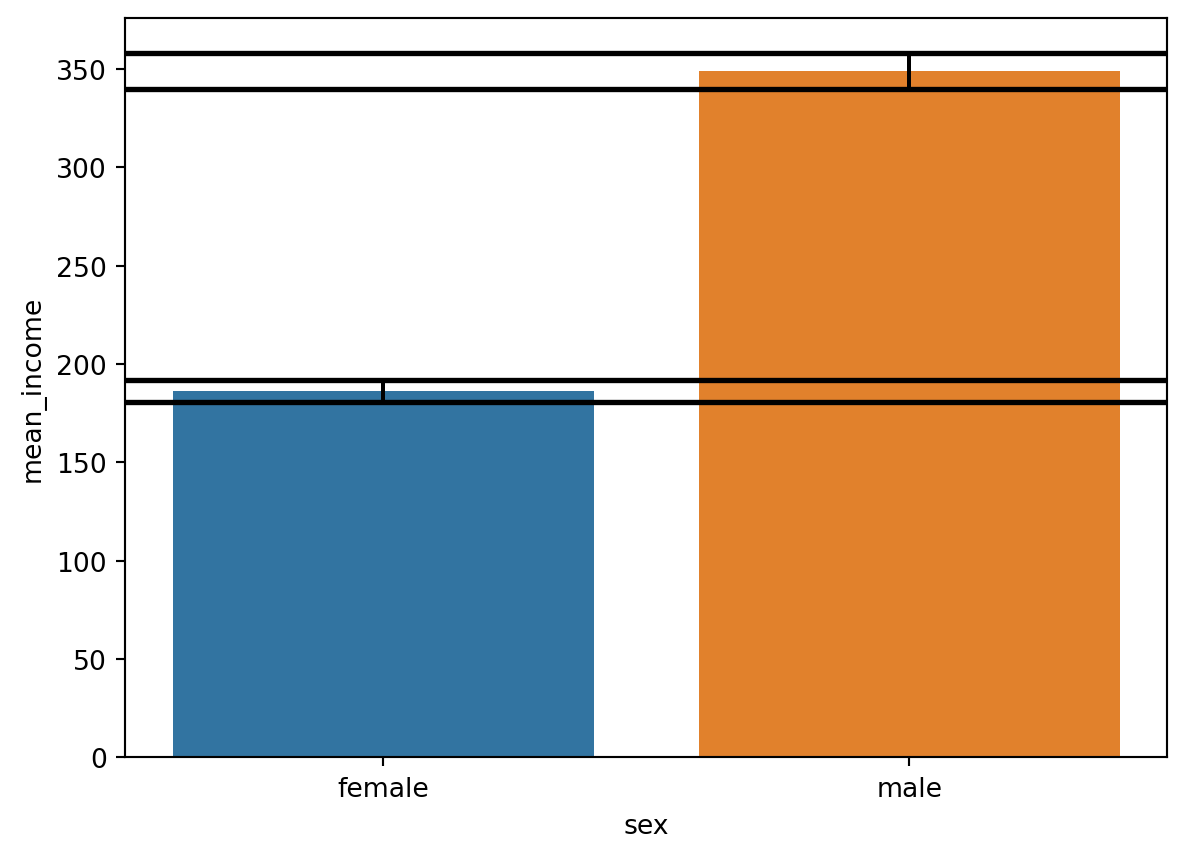
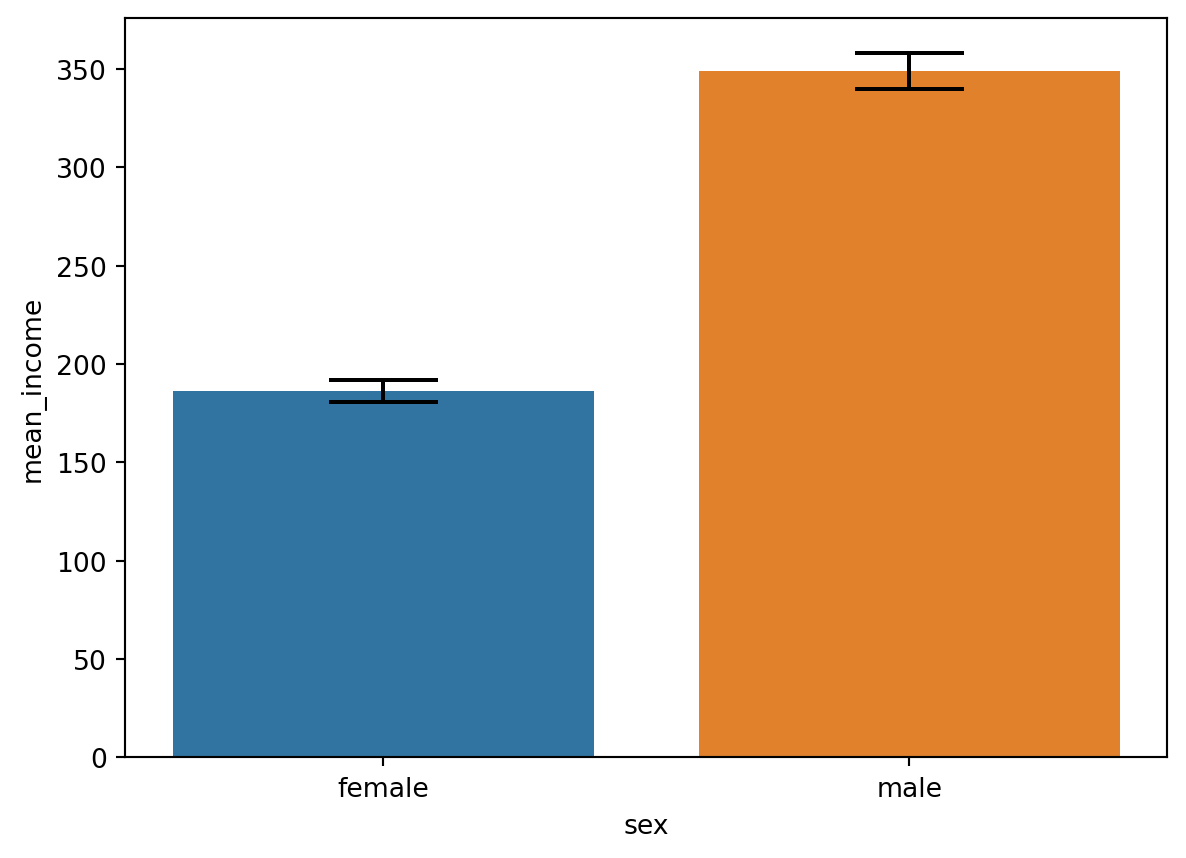
hw5

Changed region(s): [[0.0936, 0.4242, 0.9983, 0.4848], [0.0936, 0.0606, 0.9983, 0.1212]]

diff --git a/docs/posts/hw5/index.html b/docs/posts/hw5/index.html
@@ -211,7 +211,7 @@ pre > code.sourceCode > span > a:first-child::before { text-decoration: underlin
 </ul>
 <p><img src="graph.png" class="img-fluid"></p>
 <hr>
-<div id="a6b5e238" class="cell" data-execution_count="1">
+<div id="14d5e47e" class="cell" data-execution_count="1">
 <div class="sourceCode cell-code" id="cb1"><pre class="sourceCode python code-with-copy"><code class="sourceCode python"><span id="cb1-1"><a href="#cb1-1" aria-hidden="true" tabindex="-1"></a><span class="op">!</span>pip install pyreadstat</span>
 <span id="cb1-2"><a href="#cb1-2" aria-hidden="true" tabindex="-1"></a><span class="im">import</span> pandas <span class="im">as</span> pd</span>
 <span id="cb1-3"><a href="#cb1-3" aria-hidden="true" tabindex="-1"></a><span class="im">import</span> numpy <span class="im">as</span> np</span>
@@ -243,6 +243,11 @@ pre > code.sourceCode > span > a:first-child::before { text-decoration: underlin
 <span id="cb1-29"><a href="#cb1-29" aria-hidden="true" tabindex="-1"></a></span>
 <span id="cb1-30"><a href="#cb1-30" aria-hidden="true" tabindex="-1"></a><span class="co"># 성별 항목에 이름 부여                 </span></span>
 <span id="cb1-31"><a href="#cb1-31" aria-hidden="true" tabindex="-1"></a>welfare[<span class="st">'sex'</span>] <span class="op">=</span> np.where(welfare[<span class="st">'sex'</span>] <span class="op">==</span> <span class="dv">1</span>, <span class="st">'male'</span>, <span class="st">'female'</span>)</span></code><button title="Copy to Clipboard" class="code-copy-button"><i class="bi"></i></button></pre></div>
+<div class="cell-output cell-output-stderr">
+<pre><code>
+[notice] A new release of pip is available: 24.0 -&gt; 24.2
+[notice] To update, run: python.exe -m pip install --upgrade pip</code></pre>
+</div>
 <div class="cell-output cell-output-stdout">
 <pre><code>Requirement already satisfied: pyreadstat in c:\ds\python\python312\lib\site-packages (1.2.7)
 Requirement already satisfied: pandas&gt;=1.2.0 in c:\ds\python\python312\lib\site-packages (from pyreadstat) (2.2.2)
@@ -257,17 +262,12 @@ Columns: 830 entries, h14_id to h14_pers_income5
 dtypes: float64(826), object(4)
 memory usage: 91.3+ MB</code></pre>
 </div>
-<div class="cell-output cell-output-stderr">
-<pre><code>
-[notice] A new release of pip is available: 24.0 -&gt; 24.2
-[notice] To update, run: python.exe -m pip install --upgrade pip</code></pre>
-</div>
 </div>
 <hr>
 </section>
 <section id="각-성별-데이터-나누기" class="level2">
 <h2 class="anchored" data-anchor-id="각-성별-데이터-나누기">각 성별 데이터 나누기</h2>
-<div id="d24bfdd0" class="cell" data-execution_count="2">
+<div id="85c6349f" class="cell" data-execution_count="2">
 <div class="sourceCode cell-code" id="cb4"><pre class="sourceCode python code-with-copy"><code class="sourceCode python"><span id="cb4-1"><a href="#cb4-1" aria-hidden="true" tabindex="-1"></a>male_data <span class="op">=</span> welfare.query(<span class="st">'sex == "male"'</span>)[[<span class="st">"sex"</span>, <span class="st">"income"</span>]]</span>
 <span id="cb4-2"><a href="#cb4-2" aria-hidden="true" tabindex="-1"></a></span>
 <span id="cb4-3"><a href="#cb4-3" aria-hidden="true" tabindex="-1"></a>female_data <span class="op">=</span> welfare.query(<span class="st">'sex == "female"'</span>)[[<span class="st">"sex"</span>, <span class="st">"income"</span>]]</span>
@@ -308,7 +308,7 @@ memory usage: 91.3+ MB</code></pre>
 </section>
 <section id="각-성별-평균-구하기" class="level2">
 <h2 class="anchored" data-anchor-id="각-성별-평균-구하기">각 성별 평균 구하기</h2>
-<div id="91124500" class="cell" data-execution_count="3">
+<div id="17342ea2" class="cell" data-execution_count="3">
 <div class="sourceCode cell-code" id="cb6"><pre class="sourceCode python code-with-copy"><code class="sourceCode python"><span id="cb6-1"><a href="#cb6-1" aria-hidden="true" tabindex="-1"></a>male_mean <span class="op">=</span> male_data[<span class="st">'income'</span>].mean()</span>
 <span id="cb6-2"><a href="#cb6-2" aria-hidden="true" tabindex="-1"></a>female_mean <span class="op">=</span> female_data[<span class="st">'income'</span>].mean()</span>
 <span id="cb6-3"><a href="#cb6-3" aria-hidden="true" tabindex="-1"></a></span>
@@ -322,7 +322,7 @@ memory usage: 91.3+ MB</code></pre>
 </section>
 <section id="각-성별-표본분산-구하기" class="level2">
 <h2 class="anchored" data-anchor-id="각-성별-표본분산-구하기">각 성별 표본분산 구하기</h2>
-<div id="fa376e22" class="cell" data-execution_count="4">
+<div id="11c24350" class="cell" data-execution_count="4">
 <div class="sourceCode cell-code" id="cb8"><pre class="sourceCode python code-with-copy"><code class="sourceCode python"><span id="cb8-1"><a href="#cb8-1" aria-hidden="true" tabindex="-1"></a>male_s_2 <span class="op">=</span> np.var(male_data[<span class="st">'income'</span>], ddof <span class="op">=</span> <span class="dv">1</span>)</span>
 <span id="cb8-2"><a href="#cb8-2" aria-hidden="true" tabindex="-1"></a>female_s_2 <span class="op">=</span> np.var(female_data[<span class="st">'income'</span>], ddof <span class="op">=</span> <span class="dv">1</span>)</span>
 <span id="cb8-3"><a href="#cb8-3" aria-hidden="true" tabindex="-1"></a></span>
@@ -336,7 +336,7 @@ memory usage: 91.3+ MB</code></pre>
 </section>
 <section id="각-성별-표준편차-구하기" class="level2">
 <h2 class="anchored" data-anchor-id="각-성별-표준편차-구하기">각 성별 표준편차 구하기</h2>
-<div id="b2624acf" class="cell" data-execution_count="5">
+<div id="bd9a536e" class="cell" data-execution_count="5">
 <div class="sourceCode cell-code" id="cb10"><pre class="sourceCode python code-with-copy"><code class="sourceCode python"><span id="cb10-1"><a href="#cb10-1" aria-hidden="true" tabindex="-1"></a>male_scale <span class="op">=</span> np.sqrt(male_s_2)</span>
 <span id="cb10-2"><a href="#cb10-2" aria-hidden="true" tabindex="-1"></a>female_scale <span class="op">=</span> np.sqrt(female_s_2)</span>
 <span id="cb10-3"><a href="#cb10-3" aria-hidden="true" tabindex="-1"></a></span>
@@ -351,7 +351,7 @@ memory usage: 91.3+ MB</code></pre>
 </section>
 <section id="각-성별-표본수-구하기" class="level2">
 <h2 class="anchored" data-anchor-id="각-성별-표본수-구하기">각 성별 표본수 구하기</h2>
-<div id="2bd70b35" class="cell" data-execution_count="6">
+<div id="7d70d7b3" class="cell" data-execution_count="6">
 <div class="sourceCode cell-code" id="cb12"><pre class="sourceCode python code-with-copy"><code class="sourceCode python"><span id="cb12-1"><a href="#cb12-1" aria-hidden="true" tabindex="-1"></a>male_n <span class="op">=</span> male_data[<span class="st">'income'</span>].count()</span>
 <span id="cb12-2"><a href="#cb12-2" aria-hidden="true" tabindex="-1"></a>female_n <span class="op">=</span> female_data[<span class="st">'income'</span>].count()</span>
 <span id="cb12-3"><a href="#cb12-3" aria-hidden="true" tabindex="-1"></a></span>
@@ -365,18 +365,18 @@ memory usage: 91.3+ MB</code></pre>
 </section>
 <section id="각-성별-신뢰구간-95-구하기" class="level2">
 <h2 class="anchored" data-anchor-id="각-성별-신뢰구간-95-구하기">각 성별 신뢰구간 95% 구하기</h2>
-<div id="f8e5718b" class="cell" data-execution_count="7">
+<div id="185e342c" class="cell" data-execution_count="7">
 <div class="sourceCode cell-code" id="cb14"><pre class="sourceCode python code-with-copy"><code class="sourceCode python"><span id="cb14-1"><a href="#cb14-1" aria-hidden="true" tabindex="-1"></a><span class="im">from</span> scipy.stats <span class="im">import</span> norm</span>
 <span id="cb14-2"><a href="#cb14-2" aria-hidden="true" tabindex="-1"></a>z <span class="op">=</span> norm.ppf(<span class="fl">0.975</span>,loc<span class="op">=</span><span class="dv">0</span>,scale<span class="op">=</span><span class="dv">1</span>)</span>
 <span id="cb14-3"><a href="#cb14-3" aria-hidden="true" tabindex="-1"></a></span>
-<span id="cb14-4"><a href="#cb14-4" aria-hidden="true" tabindex="-1"></a>male_a <span class="op">=</span> male_mean <span class="op">+</span> z <span class="op">*</span> male_scale <span class="op">/</span> np.sqrt(male_n)</span>
-<span id="cb14-5"><a href="#cb14-5" aria-hidden="true" tabindex="-1"></a>male_b <span class="op">=</span> male_mean <span class="op">-</span> z <span class="op">*</span> male_scale <span class="op">/</span> np.sqrt(male_n)</span>
+<span id="cb14-4"><a href="#cb14-4" aria-hidden="true" tabindex="-1"></a>male_0975 <span class="op">=</span> male_mean <span class="op">+</span> z <span class="op">*</span> male_scale <span class="op">/</span> np.sqrt(male_n)</span>
+<span id="cb14-5"><a href="#cb14-5" aria-hidden="true" tabindex="-1"></a>male_0025 <span class="op">=</span> male_mean <span class="op">-</span> z <span class="op">*</span> male_scale <span class="op">/</span> np.sqrt(male_n)</span>
 <span id="cb14-6"><a href="#cb14-6" aria-hidden="true" tabindex="-1"></a></span>
-<span id="cb14-7"><a href="#cb14-7" aria-hidden="true" tabindex="-1"></a>female_a <span class="op">=</span> female_mean <span class="op">+</span> z <span class="op">*</span> female_scale <span class="op">/</span> np.sqrt(female_n)</span>
-<span id="cb14-8"><a href="#cb14-8" aria-hidden="true" tabindex="-1"></a>female_b <span class="op">=</span> female_mean <span class="op">-</span> z <span class="op">*</span> female_scale <span class="op">/</span> np.sqrt(female_n)</span>
+<span id="cb14-7"><a href="#cb14-7" aria-hidden="true" tabindex="-1"></a>female_0975 <span class="op">=</span> female_mean <span class="op">+</span> z <span class="op">*</span> female_scale <span class="op">/</span> np.sqrt(female_n)</span>
+<span id="cb14-8"><a href="#cb14-8" aria-hidden="true" tabindex="-1"></a>female_0025 <span class="op">=</span> female_mean <span class="op">-</span> z <span class="op">*</span> female_scale <span class="op">/</span> np.sqrt(female_n)</span>
 <span id="cb14-9"><a href="#cb14-9" aria-hidden="true" tabindex="-1"></a></span>
-<span id="cb14-10"><a href="#cb14-10" aria-hidden="true" tabindex="-1"></a><span class="bu">print</span>(<span class="st">"남성의 신뢰구간은 ("</span>, male_b, <span class="st">","</span>, male_a, <span class="st">")"</span>)</span>
-<span id="cb14-11"><a href="#cb14-11" aria-hidden="true" tabindex="-1"></a><span class="bu">print</span>(<span class="st">"여성의 신뢰구간은 ("</span>, female_b, <span class="st">","</span>, female_a, <span class="st">")"</span>)</span></code><button title="Copy to Clipboard" class="code-copy-button"><i class="bi"></i></button></pre></div>
+<span id="cb14-10"><a href="#cb14-10" aria-hidden="true" tabindex="-1"></a><span class="bu">print</span>(<span class="st">"남성의 신뢰구간은 ("</span>, male_0025, <span class="st">","</span>, male_0975, <span class="st">")"</span>)</span>
+<span id="cb14-11"><a href="#cb14-11" aria-hidden="true" tabindex="-1"></a><span class="bu">print</span>(<span class="st">"여성의 신뢰구간은 ("</span>, female_0025, <span class="st">","</span>, female_0975, <span class="st">")"</span>)</span></code><button title="Copy to Clipboard" class="code-copy-button"><i class="bi"></i></button></pre></div>
 <div class="cell-output cell-output-stdout">
 <pre><code>남성의 신뢰구간은 ( 340.11259229974775 , 357.96254968365116 )
 여성의 신뢰구간은 ( 180.83045468346845 , 191.7557368532799 )</code></pre>
@@ -385,7 +385,7 @@ memory usage: 91.3+ MB</code></pre>
 </section>
 <section id="그래프-그리기" class="level2">
 <h2 class="anchored" data-anchor-id="그래프-그리기">그래프 그리기</h2>
-<div id="076201a5" class="cell" data-execution_count="8">
+<div id="b8c8582e" class="cell" data-execution_count="8">
 <div class="sourceCode cell-code" id="cb16"><pre class="sourceCode python code-with-copy"><code class="sourceCode python"><span id="cb16-1"><a href="#cb16-1" aria-hidden="true" tabindex="-1"></a>sex_income <span class="op">=</span> welfare.dropna(subset <span class="op">=</span> <span class="st">'income'</span>) <span class="op">\</span></span>
 <span id="cb16-2"><a href="#cb16-2" aria-hidden="true" tabindex="-1"></a>                    .groupby(<span class="st">'sex'</span>, as_index <span class="op">=</span> <span class="va">False</span>) <span class="op">\</span></span>
 <span id="cb16-3"><a href="#cb16-3" aria-hidden="true" tabindex="-1"></a>                    .agg(mean_income <span class="op">=</span> (<span class="st">'income'</span>, <span class="st">'mean'</span>))</span>
@@ -393,17 +393,21 @@ memory usage: 91.3+ MB</code></pre>
 <span id="cb16-5"><a href="#cb16-5" aria-hidden="true" tabindex="-1"></a>sns.barplot(data <span class="op">=</span> sex_income, x <span class="op">=</span> <span class="st">'sex'</span>, y <span class="op">=</span> <span class="st">'mean_income'</span>, hue <span class="op">=</span> <span class="st">'sex'</span>)</span>
 <span id="cb16-6"><a href="#cb16-6" aria-hidden="true" tabindex="-1"></a></span>
 <span id="cb16-7"><a href="#cb16-7" aria-hidden="true" tabindex="-1"></a><span class="co"># 남성 그래프</span></span>
-<span id="cb16-8"><a href="#cb16-8" aria-hidden="true" tabindex="-1"></a>plt.axhline(y <span class="op">=</span> male_a, color <span class="op">=</span> <span class="st">"black"</span>, linestyle <span class="op">=</span> <span class="st">'-'</span>, linewidth <span class="op">=</span> <span class="dv">2</span>)</span>
-<span id="cb16-9"><a href="#cb16-9" aria-hidden="true" tabindex="-1"></a>plt.axhline(y <span class="op">=</span> male_b, color <span class="op">=</span> <span class="st">"black"</span>, linestyle <span class="op">=</span> <span class="st">'-'</span>, linewidth <span class="op">=</span> <span class="dv">2</span>)</span>
-<span id="cb16-10"><a href="#cb16-10" aria-hidden="true" tabindex="-1"></a>plt.plot([<span class="dv">1</span>,<span class="dv">1</span>], [male_b, male_a], color <span class="op">=</span> <span class="st">"black"</span>)</span>
-<span id="cb16-11"><a href="#cb16-11" aria-hidden="true" tabindex="-1"></a></span>
-<span id="cb16-12"><a href="#cb16-12" aria-hidden="true" tabindex="-1"></a><span class="co"># 여성 그래프</span></span>
-<span id="cb16-13"><a href="#cb16-13" aria-hidden="true" tabindex="-1"></a>plt.axhline(y <span class="op">=</span> female_a, color <span class="op">=</span> <span class="st">"black"</span>, linestyle <span class="op">=</span> <span class="st">'-'</span>, linewidth <span class="op">=</span> <span class="dv">2</span>)</span>
-<span id="cb16-14"><a href="#cb16-14" aria-hidden="true" tabindex="-1"></a>plt.axhline(y <span class="op">=</span> female_b, color <span class="op">=</span> <span class="st">"black"</span>, linestyle <span class="op">=</span> <span class="st">'-'</span>, linewidth <span class="op">=</span> <span class="dv">2</span>)</span>
-<span id="cb16-15"><a href="#cb16-15" aria-hidden="true" tabindex="-1"></a>plt.plot([<span class="dv">0</span>,<span class="dv">0</span>], [female_b, female_a], color <span class="op">=</span> <span class="st">"black"</span>)</span>
-<span id="cb16-16"><a href="#cb16-16" aria-hidden="true" tabindex="-1"></a></span>
-<span id="cb16-17"><a href="#cb16-17" aria-hidden="true" tabindex="-1"></a>plt.show()</span>
-<span id="cb16-18"><a href="#cb16-18" aria-hidden="true" tabindex="-1"></a>plt.clf()</span></code><button title="Copy to Clipboard" class="code-copy-button"><i class="bi"></i></button></pre></div>
+<span id="cb16-8"><a href="#cb16-8" aria-hidden="true" tabindex="-1"></a><span class="co"># plt.axhline(y = male_0975, color = "red", linestyle = '--', linewidth = 0.5)</span></span>
+<span id="cb16-9"><a href="#cb16-9" aria-hidden="true" tabindex="-1"></a><span class="co"># plt.axhline(y = male_0025, color = "red", linestyle = '--', linewidth = 0.5)</span></span>
+<span id="cb16-10"><a href="#cb16-10" aria-hidden="true" tabindex="-1"></a>plt.plot([<span class="dv">1</span>,<span class="dv">1</span>], [male_0025, male_0975], color <span class="op">=</span> <span class="st">"black"</span>)</span>
+<span id="cb16-11"><a href="#cb16-11" aria-hidden="true" tabindex="-1"></a>plt.plot([<span class="fl">0.9</span>,<span class="fl">1.1</span>], [male_0025, male_0025], color <span class="op">=</span> <span class="st">"black"</span>, linestyle <span class="op">=</span> <span class="st">'-'</span>)</span>
+<span id="cb16-12"><a href="#cb16-12" aria-hidden="true" tabindex="-1"></a>plt.plot([<span class="fl">0.9</span>,<span class="fl">1.1</span>], [male_0975, male_0975], color <span class="op">=</span> <span class="st">"black"</span>, linestyle <span class="op">=</span> <span class="st">'-'</span>)</span>
+<span id="cb16-13"><a href="#cb16-13" aria-hidden="true" tabindex="-1"></a></span>
+<span id="cb16-14"><a href="#cb16-14" aria-hidden="true" tabindex="-1"></a><span class="co"># 여성 그래프</span></span>
+<span id="cb16-15"><a href="#cb16-15" aria-hidden="true" tabindex="-1"></a><span class="co"># plt.axhline(y = female_0975, color = "red", linestyle = '--', linewidth = 0.5)</span></span>
+<span id="cb16-16"><a href="#cb16-16" aria-hidden="true" tabindex="-1"></a><span class="co"># plt.axhline(y = female_0025, color = "red", linestyle = '--', linewidth = 0.5)</span></span>
+<span id="cb16-17"><a href="#cb16-17" aria-hidden="true" tabindex="-1"></a>plt.plot([<span class="dv">0</span>,<span class="dv">0</span>], [female_0025, female_0975], color <span class="op">=</span> <span class="st">"black"</span>)</span>
+<span id="cb16-18"><a href="#cb16-18" aria-hidden="true" tabindex="-1"></a>plt.plot([<span class="op">-</span><span class="fl">0.1</span>,<span class="fl">0.1</span>], [female_0025, female_0025], color <span class="op">=</span> <span class="st">"black"</span>, linestyle <span class="op">=</span> <span class="st">'-'</span>)</span>
+<span id="cb16-19"><a href="#cb16-19" aria-hidden="true" tabindex="-1"></a>plt.plot([<span class="op">-</span><span class="fl">0.1</span>,<span class="fl">0.1</span>], [female_0975, female_0975], color <span class="op">=</span> <span class="st">"black"</span>, linestyle <span class="op">=</span> <span class="st">'-'</span>)</span>
+<span id="cb16-20"><a href="#cb16-20" aria-hidden="true" tabindex="-1"></a></span>
+<span id="cb16-21"><a href="#cb16-21" aria-hidden="true" tabindex="-1"></a>plt.show()</span>
+<span id="cb16-22"><a href="#cb16-22" aria-hidden="true" tabindex="-1"></a>plt.clf()</span></code><button title="Copy to Clipboard" class="code-copy-button"><i class="bi"></i></button></pre></div>
 <div class="cell-output cell-output-display">
 <div>
 <figure class="figure">

diff --git a/docs/blog.html b/docs/blog.html
@@ -202,7 +202,7 @@ window.Quarto = {
 
 <div class="quarto-listing quarto-listing-container-default" id="listing-listing">
 <div class="list quarto-listing-default">
-<div class="quarto-post image-right" data-index="0" data-categories="bigdata" data-listing-date-sort="1722265200000" data-listing-file-modified-sort="1722347666885" data-listing-date-modified-sort="NaN" data-listing-reading-time-sort="3" data-listing-word-count-sort="470">
+<div class="quarto-post image-right" data-index="0" data-categories="bigdata" data-listing-date-sort="1722265200000" data-listing-file-modified-sort="1722385383082" data-listing-date-modified-sort="NaN" data-listing-reading-time-sort="3" data-listing-word-count-sort="506">
 <div class="thumbnail">
 <p><a href="./posts/hw5/index.html" class="no-external"></a></p><a href="./posts/hw5/index.html" class="no-external">
 <p class="card-img-top"><img src="posts\hw5\damgom5.jpg"  class="thumbnail-image card-img"/></p>
@@ -230,12 +230,12 @@ bigdata
 </ul>
 <p></p>
 <hr>
-<div id="a6b5e238" class="cell" data-execution_count="1">
+<div id="14d5e47e" class="cell" data-execution_count="1">
 <div class="sourceCode cell-code" id="cb1"><pre class="sourceCode python code-with-copy"><code class="sourceCode python"><span id="cb1-1"><span class="op">!</span>pip install pyreadstat</span>
 <span id="cb1-2"><span class="im">import</span> pandas <span class="im">as</span> pd</span>
 <span id="cb1-3"><span class="im">import</span> numpy <span class="im">as</span> np</span>
 <span id="cb1-4"><span class="im">import</span> seaborn <span class="im">as</span> sns</span>
-<span id="cb1-5"><span class="im">import</span> matpl…<span class="im"></span></span><span id="cb1-6"></span><span id="cb1-7"><span class="co"></span></span><span id="cb1-8"><span class="op"></span><span class="st"></span></span><span id="cb1-9"></span><span id="cb1-10"><span class="co"></span></span><span id="cb1-11"><span class="op"></span></span><span id="cb1-12"></span><span id="cb1-13"></span><span id="cb1-14"></span><span id="cb1-15"><span class="co"></span></span><span id="cb1-16"><span class="op"></span></span><span id="cb1-17"><span class="op"></span><span class="st"></span><span class="st"></span></span><span id="cb1-18"><span class="st"></span><span class="st"></span></span><span id="cb1-19"><span class="st"></span><span class="st"></span></span><span id="cb1-20"><span class="st"></span><span class="st"></span></span><span id="cb1-21"><span class="st"></span><span class="st"></span></span><span id="cb1-22"><span class="st"></span><span class="st"></span></span><span id="cb1-23"><span class="st"></span><span class="st"></span></span><span id="cb1-24"></span><span id="cb1-25"></span><span id="cb1-26"><span class="co"></span></span><span id="cb1-27"><span class="op"></span><span class="st"></span><span class="st"></span><span class="st"></span><span class="st"></span></span><span id="cb1-28"><span class="st"></span><span class="st"></span><span class="st"></span></span><span id="cb1-29"></span><span id="cb1-30"><span class="co"></span></span><span id="cb1-31"><span class="st"></span><span class="op"></span><span class="st"></span><span class="op"></span><span class="dv"></span><span class="st"></span><span class="st"></span></span></code></pre></div><div class="cell-output cell-output-stdout"><pre><code></code></pre></div><div class="cell-output cell-output-stderr"><pre><code></code></pre></div></div><hr></a>
+<span id="cb1-5"><span class="im">import</span> matpl…<span class="im"></span></span><span id="cb1-6"></span><span id="cb1-7"><span class="co"></span></span><span id="cb1-8"><span class="op"></span><span class="st"></span></span><span id="cb1-9"></span><span id="cb1-10"><span class="co"></span></span><span id="cb1-11"><span class="op"></span></span><span id="cb1-12"></span><span id="cb1-13"></span><span id="cb1-14"></span><span id="cb1-15"><span class="co"></span></span><span id="cb1-16"><span class="op"></span></span><span id="cb1-17"><span class="op"></span><span class="st"></span><span class="st"></span></span><span id="cb1-18"><span class="st"></span><span class="st"></span></span><span id="cb1-19"><span class="st"></span><span class="st"></span></span><span id="cb1-20"><span class="st"></span><span class="st"></span></span><span id="cb1-21"><span class="st"></span><span class="st"></span></span><span id="cb1-22"><span class="st"></span><span class="st"></span></span><span id="cb1-23"><span class="st"></span><span class="st"></span></span><span id="cb1-24"></span><span id="cb1-25"></span><span id="cb1-26"><span class="co"></span></span><span id="cb1-27"><span class="op"></span><span class="st"></span><span class="st"></span><span class="st"></span><span class="st"></span></span><span id="cb1-28"><span class="st"></span><span class="st"></span><span class="st"></span></span><span id="cb1-29"></span><span id="cb1-30"><span class="co"></span></span><span id="cb1-31"><span class="st"></span><span class="op"></span><span class="st"></span><span class="op"></span><span class="dv"></span><span class="st"></span><span class="st"></span></span></code></pre></div><div class="cell-output cell-output-stderr"><pre><code></code></pre></div><div class="cell-output cell-output-stdout"><pre><code></code></pre></div></div><hr></a>
 </div>
 </div>
 <div class="metadata">
